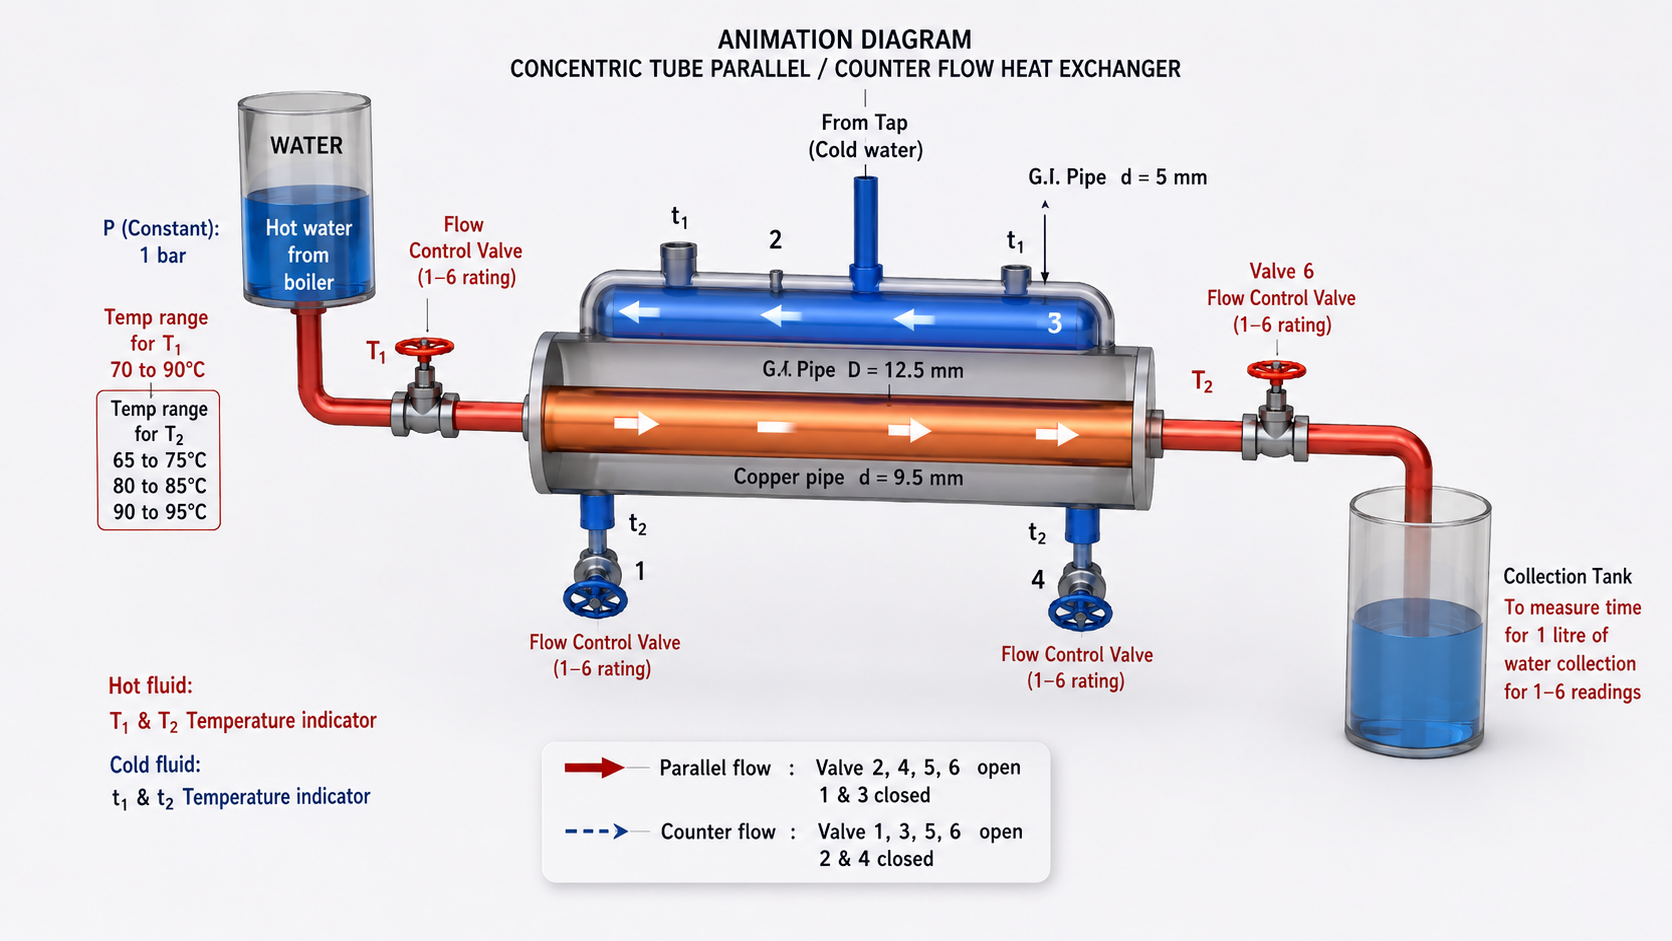
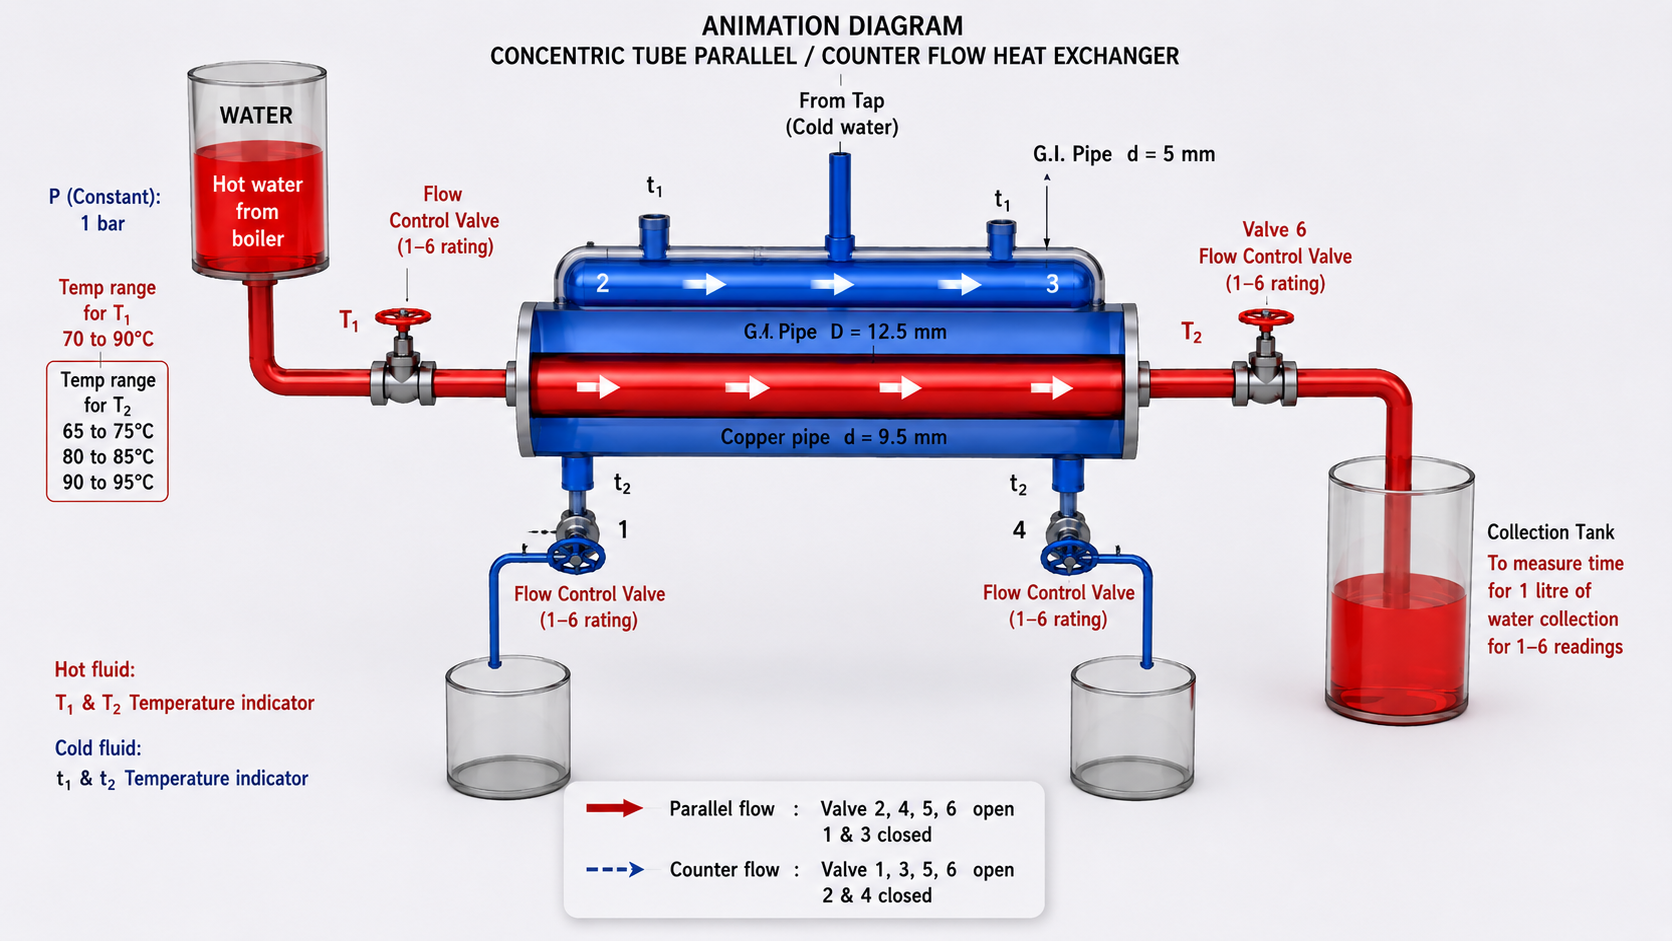
first commit

Changed region(s): [[0.0311, 0.0, 0.9952, 0.9862], [0.0311, 0.7088, 0.2177, 0.8629]]

diff --git a/src/App.js b/src/App.js
@@ -133,7 +133,6 @@ const App = () => {
   };
 
   // Temperature scenarios based on PDF ranges
-  // Temp range: 65-75°C, 80-85°C, 90-95°C
   const applyScenario1 = () => {
     if (flowType === 'parallel') {
       setTemperatures({ tHI: 65.0, tHO: 35.0, tCI: 22.5, tCO: 47.5 });
@@ -207,15 +206,9 @@ const App = () => {
             }}
           />
           
-          {/* Animated Arrows Overlay - Matching the diagram exactly */}
+          {/* Animated Arrows Overlay */}
           <svg className="animated-arrows-overlay" viewBox="0 0 1200 650" preserveAspectRatio="none">
             <defs>
-              <marker id="arrowRed" markerWidth="14" markerHeight="14" refX="12" refY="7" orient="auto">
-                <path d="M0,0 L14,7 L0,14 Z" fill="#ef4444"/>
-              </marker>
-              <marker id="arrowBlue" markerWidth="14" markerHeight="14" refX="12" refY="7" orient="auto">
-                <path d="M0,0 L14,7 L0,14 Z" fill="#3b82f6"/>
-              </marker>
               <marker id="arrowRedSmall" markerWidth="10" markerHeight="10" refX="8" refY="5" orient="auto">
                 <path d="M0,0 L10,5 L0,10 Z" fill="#ef4444"/>
               </marker>
@@ -226,78 +219,58 @@ const App = () => {
 
             {flowType === 'parallel' ? (
               <>
-                {/* Parallel Flow: Hot water left to right */}
+                {/* PARALLEL FLOW - Both arrows left to right */}
                 {isAnimating && (
                   <>
-                    <g className="arrow-animate right">
-                      <line x1="180" y1="130" x2="420" y2="130" stroke="#ef4444" strokeWidth="4" strokeLinecap="round" markerEnd="url(#arrowRed)"/>
-                    </g>
+                    {/* Hot water (Blue) left to right */}
                     <g className="arrow-animate right delay-1">
-                      <line x1="200" y1="240" x2="420" y2="240" stroke="#ef4444" strokeWidth="3.5" strokeLinecap="round" markerEnd="url(#arrowRedSmall)"/>
+                      <line x1="220" y1="194" x2="400" y2="194" stroke="#3b82f6" strokeWidth="3.5" strokeLinecap="round" markerEnd="url(#arrowBlueSmall)"/>
                     </g>
                     <g className="arrow-animate right delay-2">
-                      <line x1="440" y1="240" x2="660" y2="240" stroke="#ef4444" strokeWidth="3.5" strokeLinecap="round" markerEnd="url(#arrowRedSmall)"/>
+                      <line x1="440" y1="194" x2="620" y2="194" stroke="#3b82f6" strokeWidth="3.5" strokeLinecap="round" markerEnd="url(#arrowBlueSmall)"/>
                     </g>
                     <g className="arrow-animate right delay-3">
-                      <line x1="680" y1="240" x2="880" y2="240" stroke="#ef4444" strokeWidth="3.5" strokeLinecap="round" markerEnd="url(#arrowRedSmall)"/>
+                      <line x1="660" y1="194" x2="840" y2="194" stroke="#3b82f6" strokeWidth="3.5" strokeLinecap="round" markerEnd="url(#arrowBlueSmall)"/>
                     </g>
-                    <g className="arrow-animate right">
-                      <line x1="780" y1="130" x2="920" y2="130" stroke="#ef4444" strokeWidth="4" strokeLinecap="round" markerEnd="url(#arrowRed)"/>
-                    </g>
-                    {/* Cold water left to right */}
-                    <g className="arrow-animate right delay-1">
-                      <line x1="180" y1="360" x2="420" y2="360" stroke="#3b82f6" strokeWidth="4" strokeLinecap="round" markerEnd="url(#arrowBlue)"/>
-                    </g>
+                    
+                    {/* Cold water (Red) left to right */}
                     <g className="arrow-animate right delay-2">
-                      <line x1="200" y1="290" x2="420" y2="290" stroke="#3b82f6" strokeWidth="3.5" strokeLinecap="round" markerEnd="url(#arrowBlueSmall)"/>
+                      <line x1="220" y1="266" x2="400" y2="266" stroke="#ef4444" strokeWidth="3.5" strokeLinecap="round" markerEnd="url(#arrowRedSmall)"/>
                     </g>
                     <g className="arrow-animate right delay-3">
-                      <line x1="440" y1="290" x2="660" y2="290" stroke="#3b82f6" strokeWidth="3.5" strokeLinecap="round" markerEnd="url(#arrowBlueSmall)"/>
+                      <line x1="440" y1="266" x2="620" y2="266" stroke="#ef4444" strokeWidth="3.5" strokeLinecap="round" markerEnd="url(#arrowRedSmall)"/>
                     </g>
                     <g className="arrow-animate right">
-                      <line x1="680" y1="290" x2="880" y2="290" stroke="#3b82f6" strokeWidth="3.5" strokeLinecap="round" markerEnd="url(#arrowBlueSmall)"/>
-                    </g>
-                    <g className="arrow-animate right delay-2">
-                      <line x1="780" y1="360" x2="920" y2="360" stroke="#3b82f6" strokeWidth="4" strokeLinecap="round" markerEnd="url(#arrowBlue)"/>
+                      <line x1="660" y1="266" x2="840" y2="266" stroke="#ef4444" strokeWidth="3.5" strokeLinecap="round" markerEnd="url(#arrowRedSmall)"/>
                     </g>
                   </>
                 )}
               </>
             ) : (
               <>
-                {/* Counter Flow: Hot water right to left */}
+                {/* COUNTER FLOW - BOTH arrows move from RIGHT to LEFT */}
                 {isAnimating && (
                   <>
-                    <g className="arrow-animate left">
-                      <line x1="920" y1="130" x2="780" y2="130" stroke="#ef4444" strokeWidth="4" strokeLinecap="round" markerEnd="url(#arrowRed)"/>
-                    </g>
-                    <g className="arrow-animate left">
-                      <line x1="880" y1="240" x2="660" y2="240" stroke="#ef4444" strokeWidth="3.5" strokeLinecap="round" markerEnd="url(#arrowRedSmall)"/>
-                    </g>
-                    <g className="arrow-animate left delay-1">
-                      <line x1="640" y1="240" x2="420" y2="240" stroke="#ef4444" strokeWidth="3.5" strokeLinecap="round" markerEnd="url(#arrowRedSmall)"/>
-                    </g>
-                    <g className="arrow-animate left delay-2">
-                      <line x1="400" y1="240" x2="200" y2="240" stroke="#ef4444" strokeWidth="3.5" strokeLinecap="round" markerEnd="url(#arrowRedSmall)"/>
-                    </g>
-                    <g className="arrow-animate left delay-1">
-                      <line x1="180" y1="130" x2="60" y2="130" stroke="#ef4444" strokeWidth="4" strokeLinecap="round" markerEnd="url(#arrowRed)"/>
-                    </g>
-                    {/* Cold water left to right */}
+                    {/* Hot water (BLUE) - RIGHT to LEFT */}
                     <g className="arrow-animate right">
-                      <line x1="180" y1="360" x2="420" y2="360" stroke="#3b82f6" strokeWidth="4" strokeLinecap="round" markerEnd="url(#arrowBlue)"/>
+                      <line x1="840" y1="194" x2="660" y2="194" stroke="#3b82f6" strokeWidth="3.5" strokeLinecap="round" markerEnd="url(#arrowBlueSmall)"/>
                     </g>
                     <g className="arrow-animate right delay-1">
-                      <line x1="200" y1="290" x2="420" y2="290" stroke="#3b82f6" strokeWidth="3.5" strokeLinecap="round" markerEnd="url(#arrowBlueSmall)"/>
+                      <line x1="620" y1="194" x2="440" y2="194" stroke="#3b82f6" strokeWidth="3.5" strokeLinecap="round" markerEnd="url(#arrowBlueSmall)"/>
                     </g>
                     <g className="arrow-animate right delay-2">
-                      <line x1="440" y1="290" x2="660" y2="290" stroke="#3b82f6" strokeWidth="3.5" strokeLinecap="round" markerEnd="url(#arrowBlueSmall)"/>
+                      <line x1="400" y1="194" x2="220" y2="194" stroke="#3b82f6" strokeWidth="3.5" strokeLinecap="round" markerEnd="url(#arrowBlueSmall)"/>
+                    </g>
+                    
+                    {/* Cold water (RED) - RIGHT to LEFT */}
+                    <g className="arrow-animate right delay-1">
+                      <line x1="840" y1="266" x2="660" y2="266" stroke="#ef4444" strokeWidth="3.5" strokeLinecap="round" markerEnd="url(#arrowRedSmall)"/>
+                    </g>
+                    <g className="arrow-animate right delay-2">
+                      <line x1="620" y1="266" x2="440" y2="266" stroke="#ef4444" strokeWidth="3.5" strokeLinecap="round" markerEnd="url(#arrowRedSmall)"/>
                     </g>
                     <g className="arrow-animate right delay-3">
-                      <line x1="680" y1="290" x2="880" y2="290" stroke="#3b82f6" strokeWidth="3.5" strokeLinecap="round" markerEnd="url(#arrowBlueSmall)"/>
-                    </g>
-                    <g className="arrow-animate right delay-2">
-                      <line x1="780" y1="360" x2="920" y2="360" stroke="#3b82f6" strokeWidth="4" strokeLinecap="round" markerEnd="url(#arrowBlue)"/>
+                      <line x1="400" y1="266" x2="220" y2="266" stroke="#ef4444" strokeWidth="3.5" strokeLinecap="round" markerEnd="url(#arrowRedSmall)"/>
                     </g>
                   </>
                 )}
@@ -463,7 +436,7 @@ const App = () => {
             {/* Tabulation Table */}
             <div className="tabulation-table">
               <h4>📋 OBSERVATION TABULATION</h4>
-              <table>
+              <table className="data-table">
                 <thead>
                   <tr>
                     <th>S.No</th>